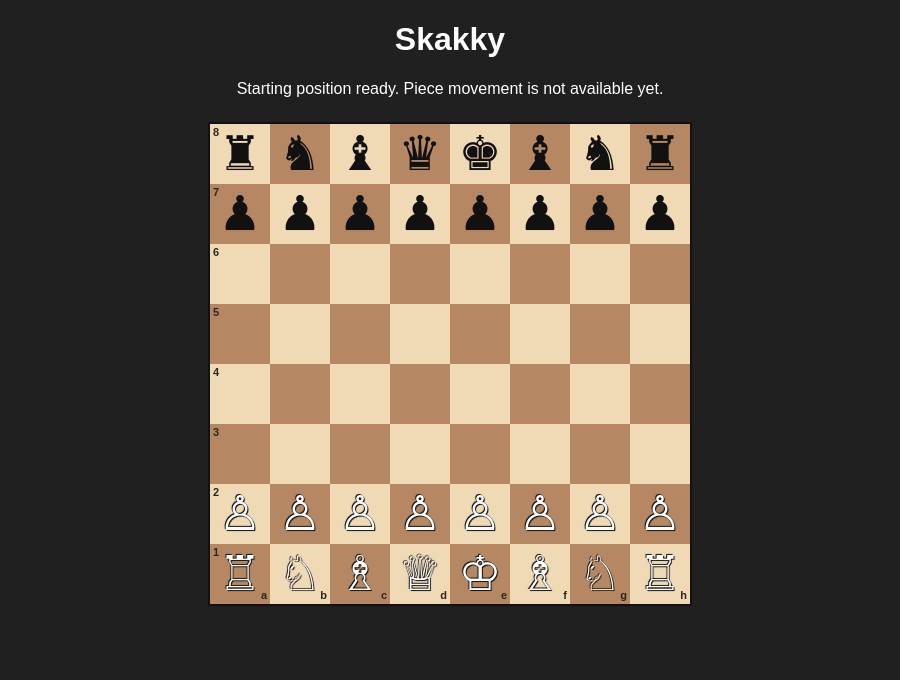
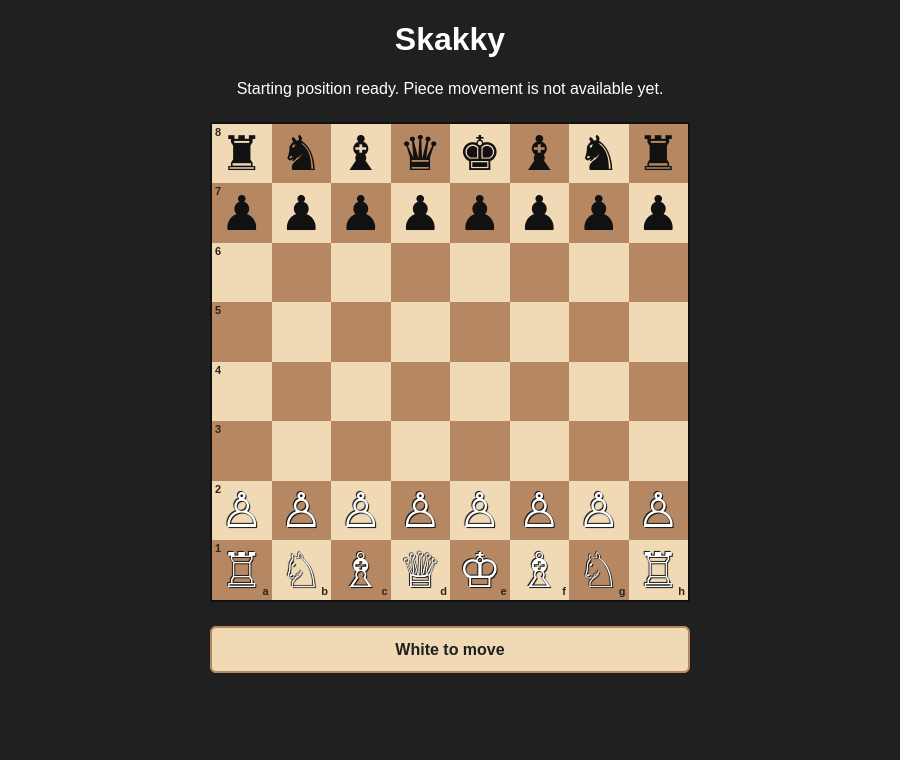
Add the starting turn indicator

Changed region(s): [[0.2178, 0.0309, 0.7778, 0.8956]]

diff --git a/style.css b/style.css
@@ -6,6 +6,7 @@ body {
 }
 
 #board {
+    box-sizing: border-box;
     display: grid;
     grid-template-columns: repeat(8, minmax(0, 1fr));
     grid-template-rows: repeat(8, minmax(0, 1fr));
@@ -13,6 +14,18 @@ body {
     aspect-ratio: 1;
     margin: 24px auto;
     border: 2px solid #111;
+}
+
+#turn {
+    box-sizing: border-box;
+    width: min(90vw, 480px);
+    margin: 16px auto;
+    padding: 12px 16px;
+    border: 2px solid #b58863;
+    border-radius: 6px;
+    background-color: #f0d9b5;
+    color: #202020;
+    font-weight: bold;
 }
 
 .square {

diff --git a/index.html b/index.html
@@ -11,5 +11,6 @@
     <h1>Skakky</h1>
     <p id="status"></p>
     <div id="board" role="group" aria-label="Chessboard in the starting position"></div>
+    <p id="turn" role="status">White to move</p>
 </body>
 </html>

diff --git a/README.md b/README.md
@@ -10,6 +10,7 @@ A personal chess project built with HTML, CSS and JavaScript, one small step at 
 - All 32 pieces in their standard starting positions, with White at the bottom.
 - File labels (`a`–`h`) and rank labels (`8`–`1`) along the board edges.
 - Unicode piece symbols with English accessible names that include their square coordinates.
+- A turn indicator showing `White to move` for the starting position.
 - Piece movement and game rules are not implemented yet.
 
 ## Run locally
@@ -17,11 +18,12 @@ A personal chess project built with HTML, CSS and JavaScript, one small step at 
 Open `index.html` in a web browser on Linux or Windows. No installation or build step is required.
 
 The board is currently a static display. Hover over a square to see its coordinate, such as `a8` or `h1`.
+The turn indicator stays on White until move handling and turn changes are implemented.
 Unicode piece shapes may vary slightly depending on the fonts installed on your system.
 
 ## Files
 
-- `index.html` defines the page structure.
+- `index.html` defines the page structure and the turn indicator.
 - `style.css` defines the page layout and square colors.
 - `script.js` creates the 64 squares and displays pieces from an 8×8 array.
 
